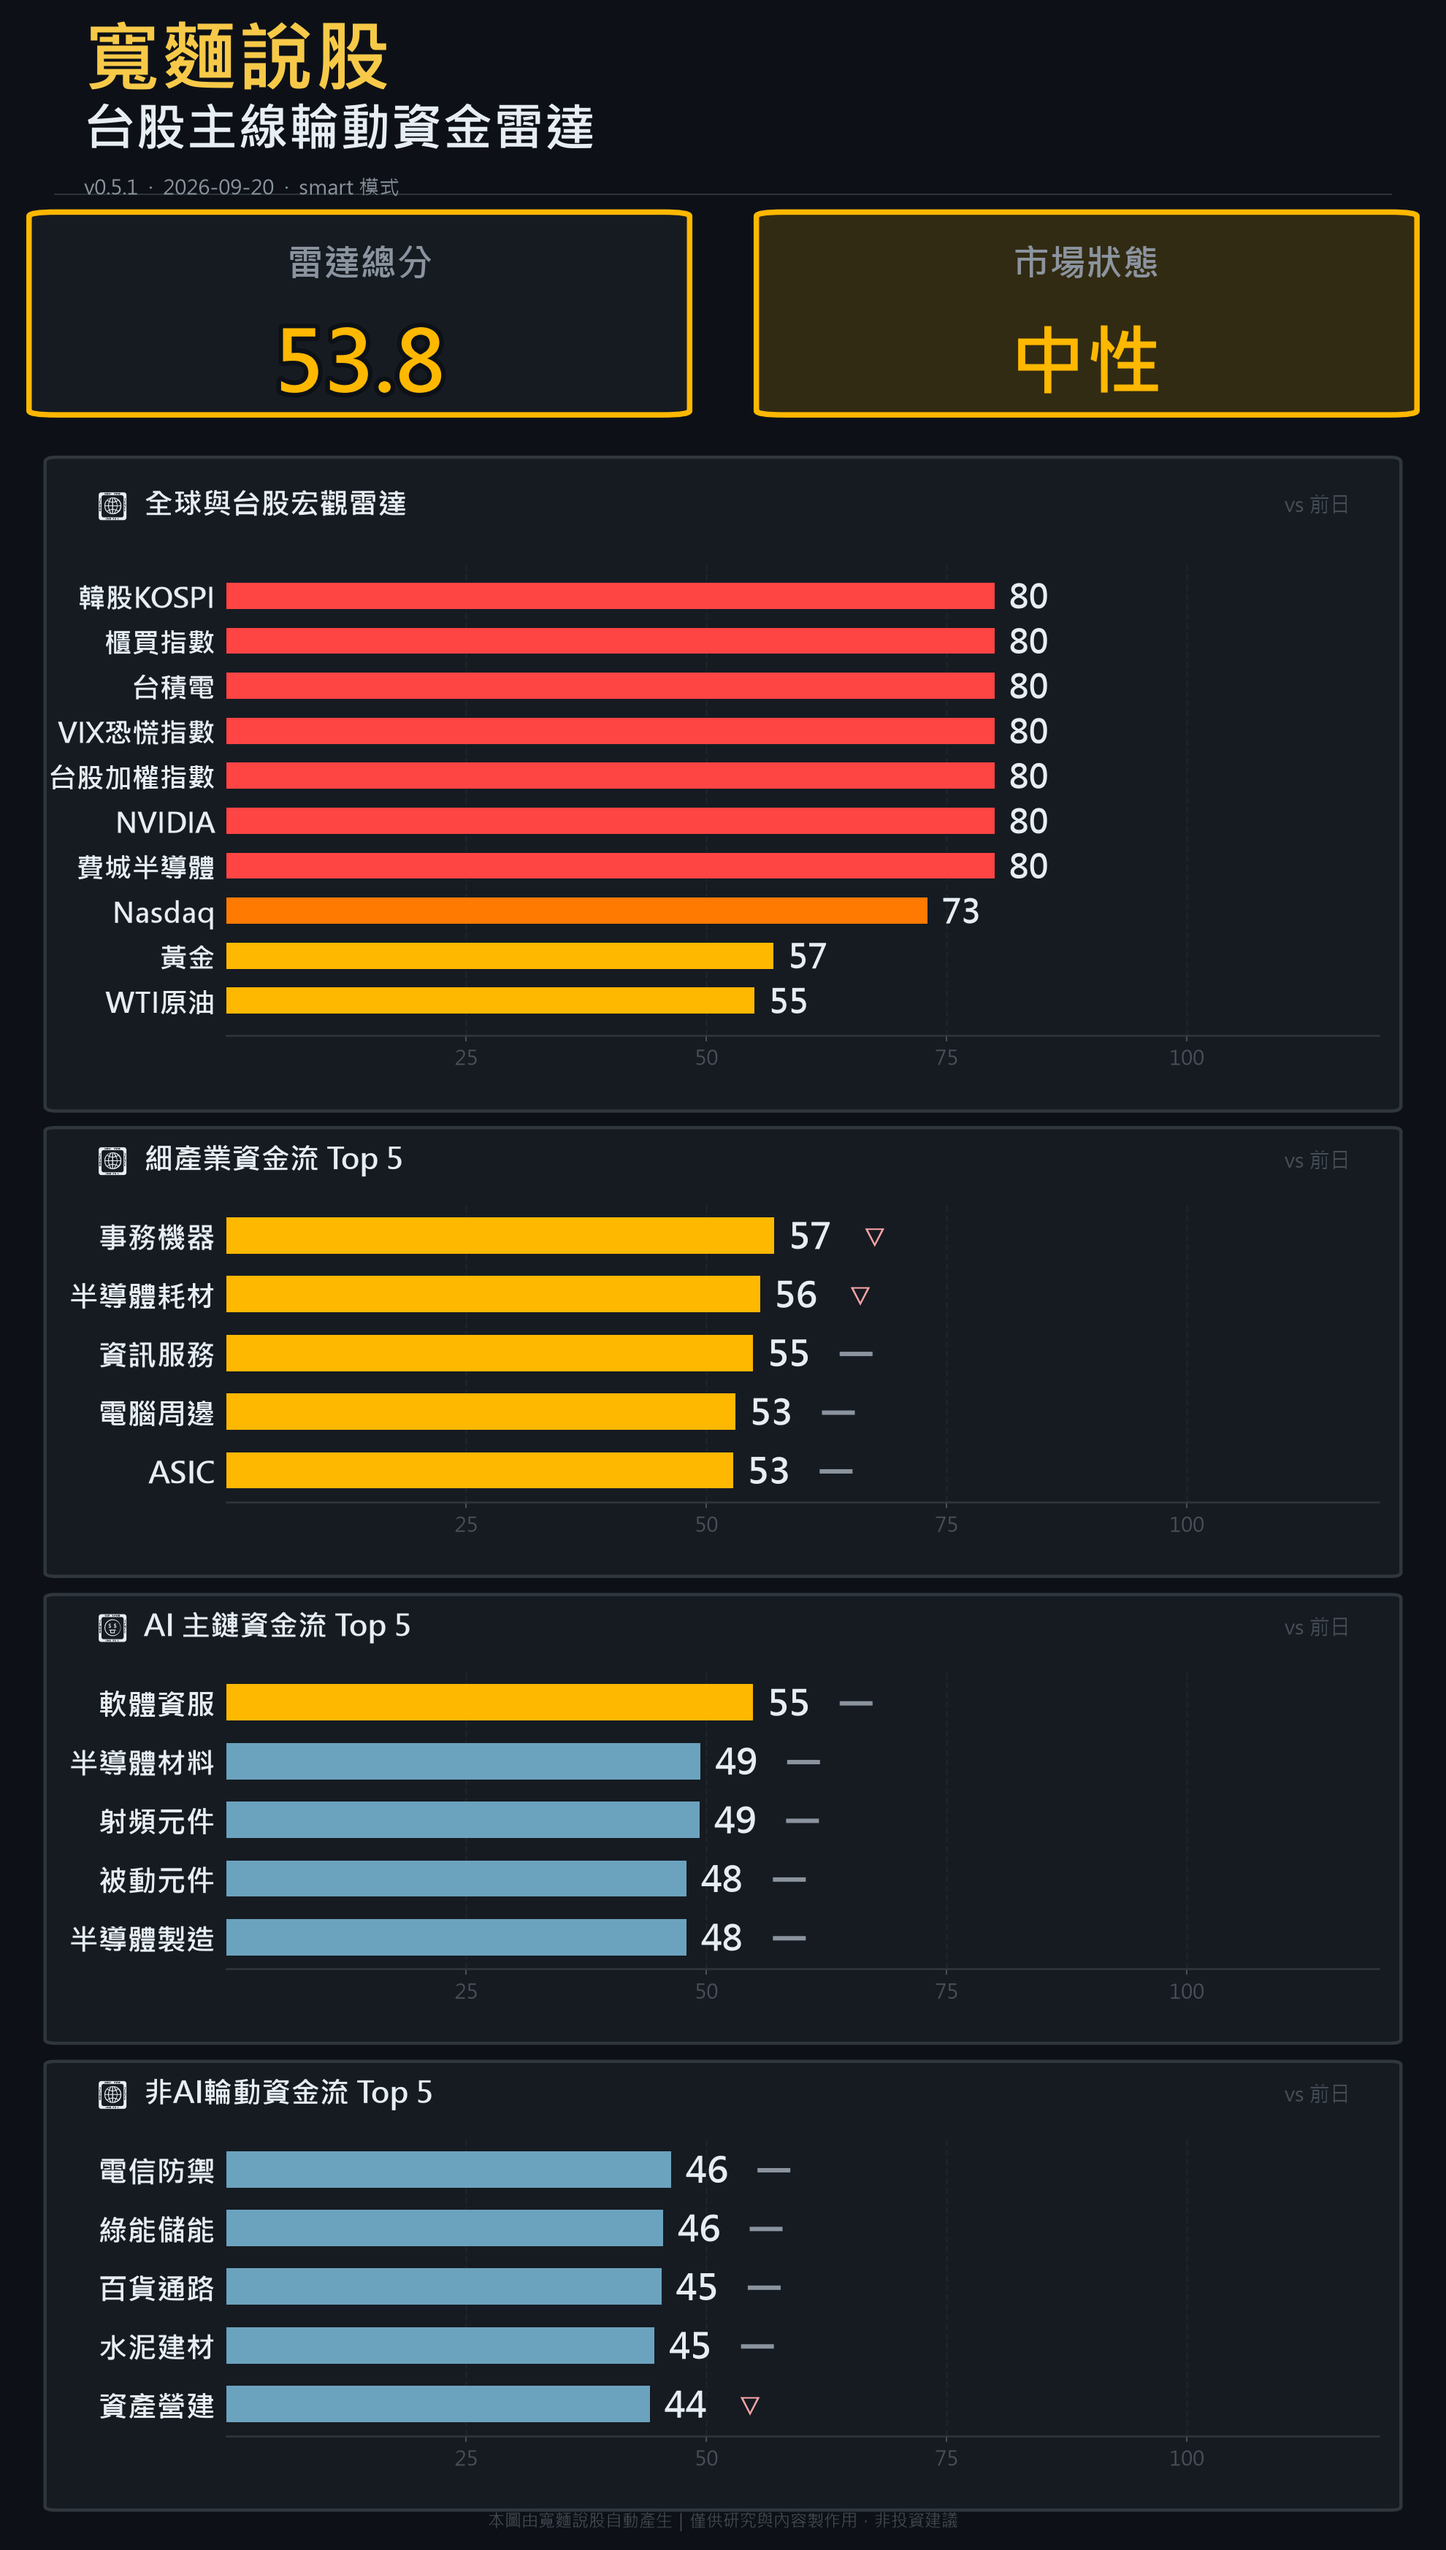
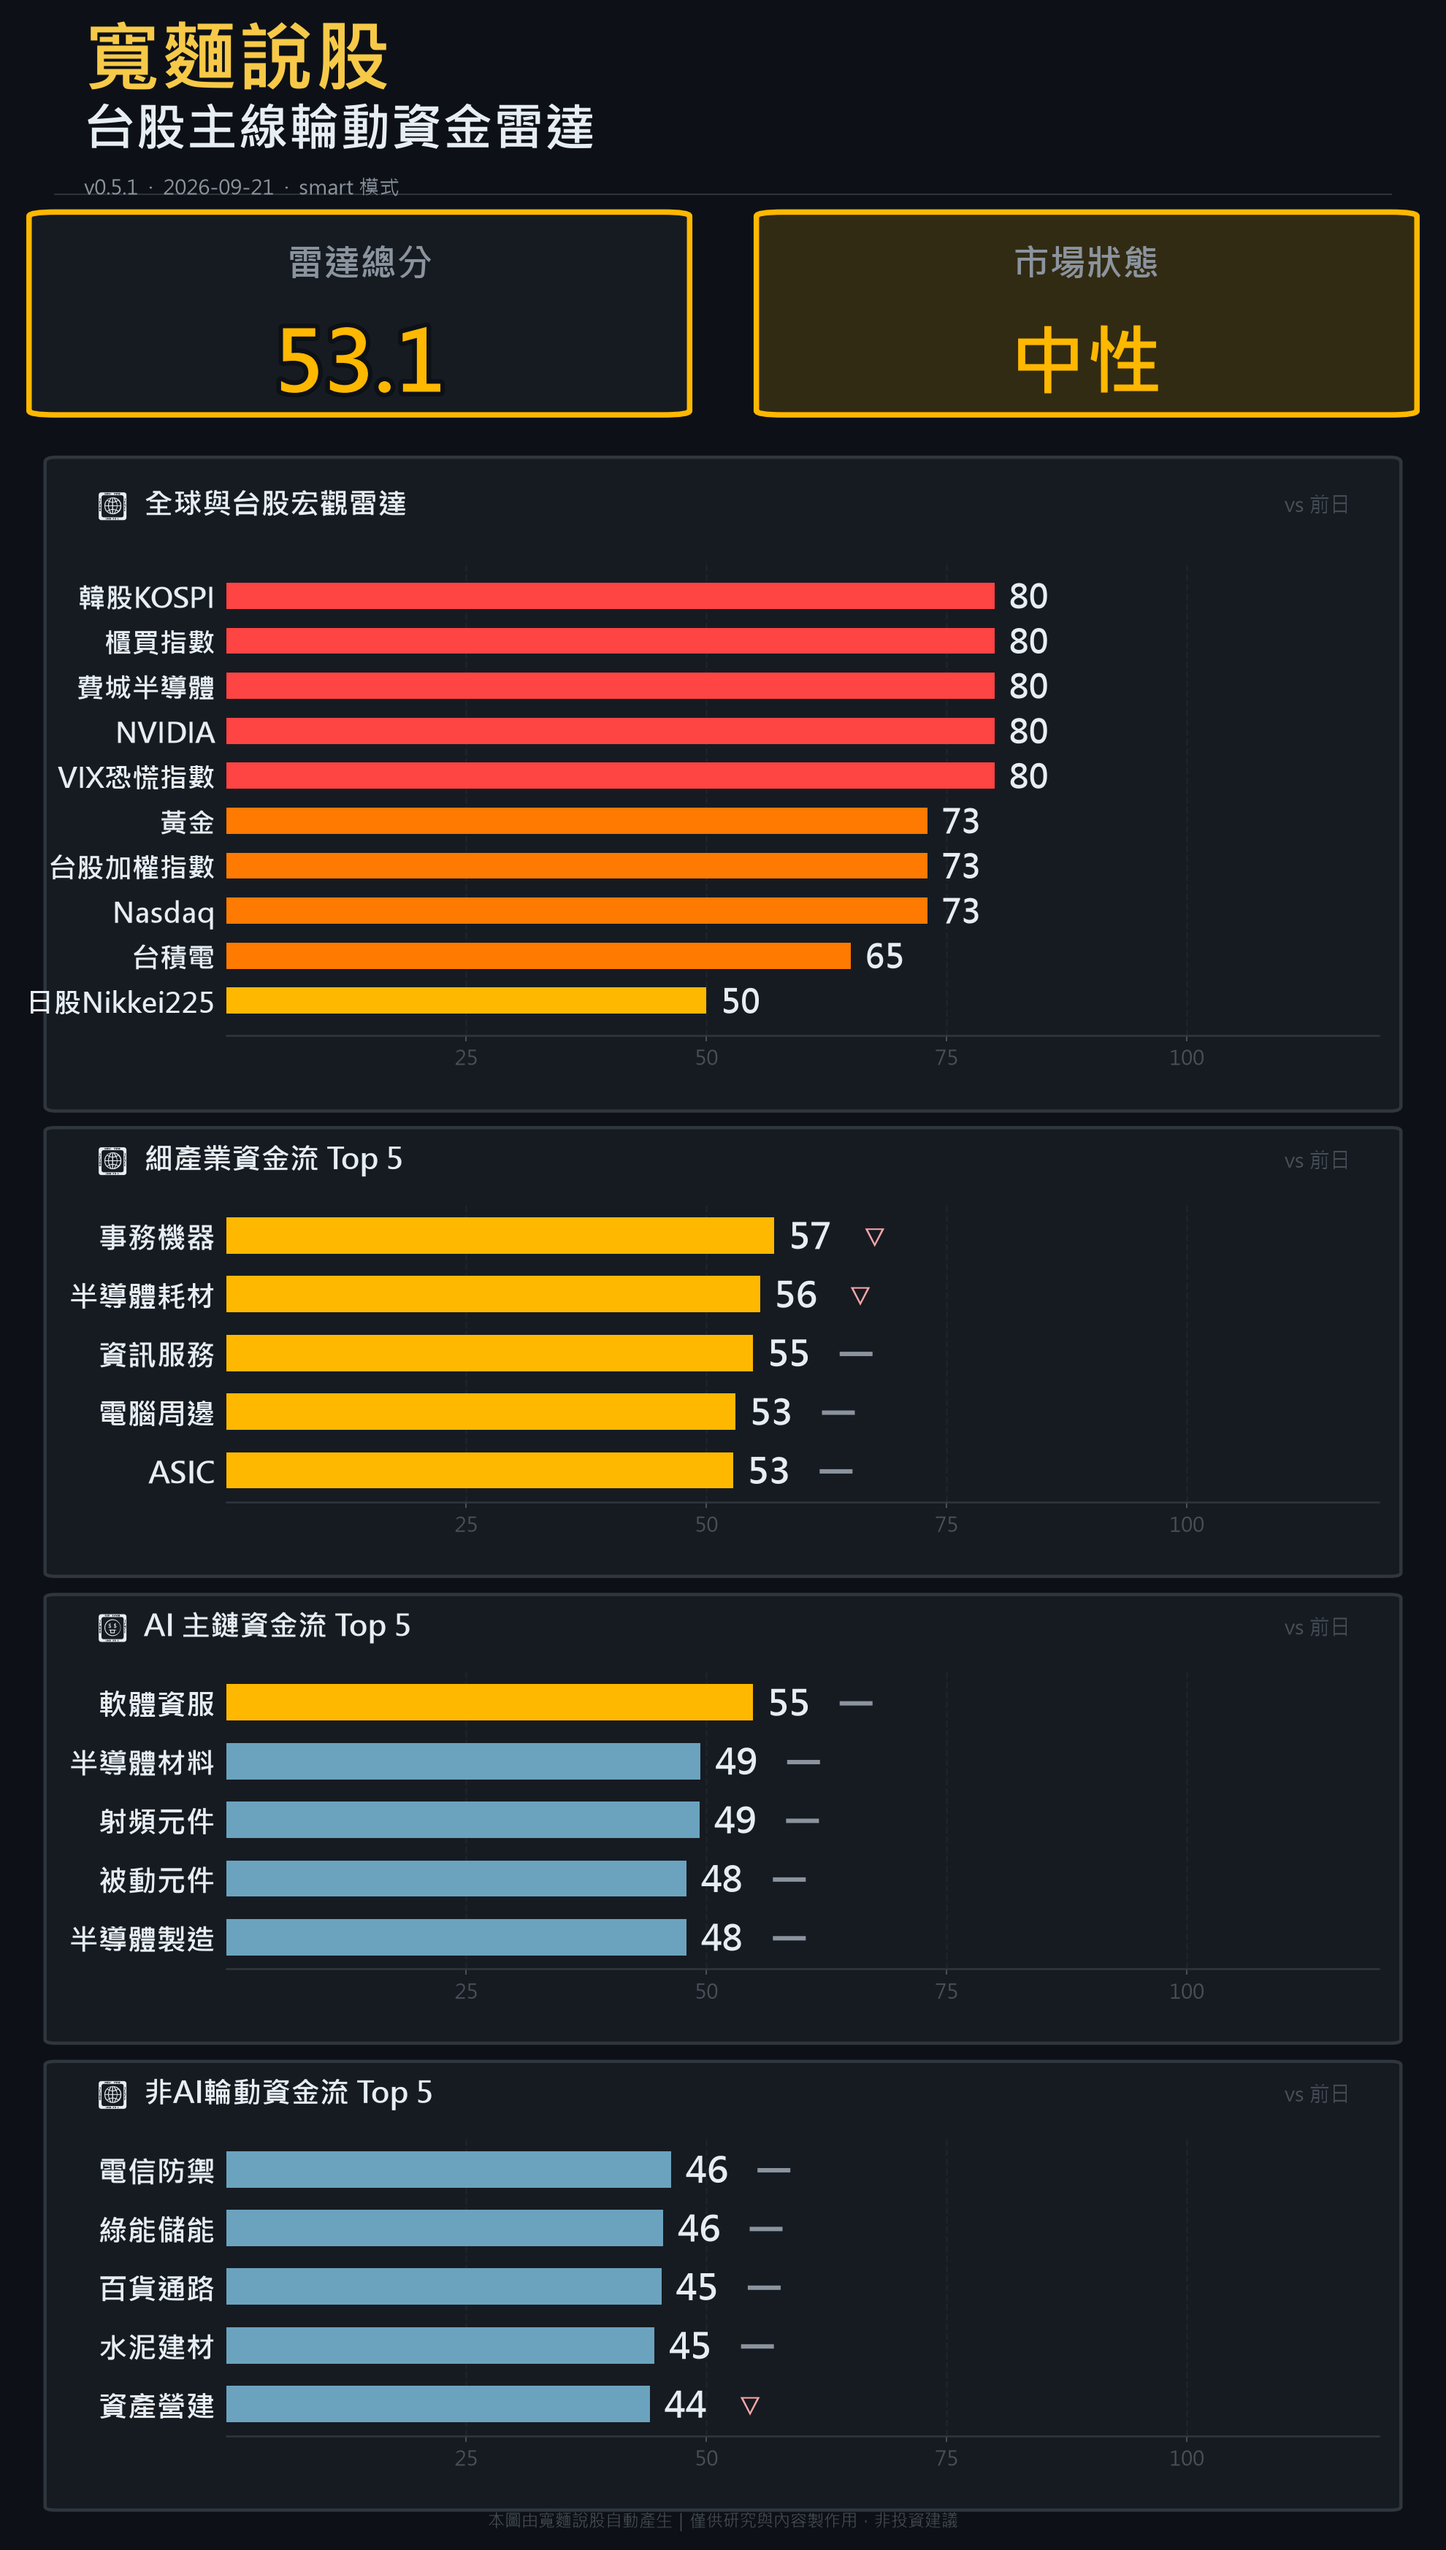
auto update radar chart 週一 2026/09/21  7:28:25.90

Changed region(s): [[0.0308, 0.2497, 0.7394, 0.4058], [0.2773, 0.1249, 0.3081, 0.1561]]

diff --git a/index.html b/index.html
@@ -122,7 +122,7 @@
     <section class="hero">
       <div class="brand">寬麵說股｜股海說書人</div>
       <h1>台股主線輪動資金雷達</h1>
-      <div class="updated">最後更新：2026-09-20 07:25:10</div>
+      <div class="updated">最後更新：2026-09-21 07:28:25</div>
       <div class="notice">
         每日追蹤 AI 主鏈、非AI輪動、宏觀風險與族群資金流。<br>
         本圖卡僅供研究與內容製作用，非投資建議。
@@ -130,11 +130,11 @@
     </section>
 
     <section class="dashboard-wrap">
-      <img class="dashboard" src="dashboard.png?v=20260920" alt="寬麵說股 台股主線輪動資金雷達">
+      <img class="dashboard" src="dashboard.png?v=20260921" alt="寬麵說股 台股主線輪動資金雷達">
     </section>
 
     <div class="actions">
-      <a class="btn" href="dashboard.png?v=20260920" target="_blank">開啟原圖</a>
+      <a class="btn" href="dashboard.png?v=20260921" target="_blank">開啟原圖</a>
     </div>
 
     <div class="footer">
